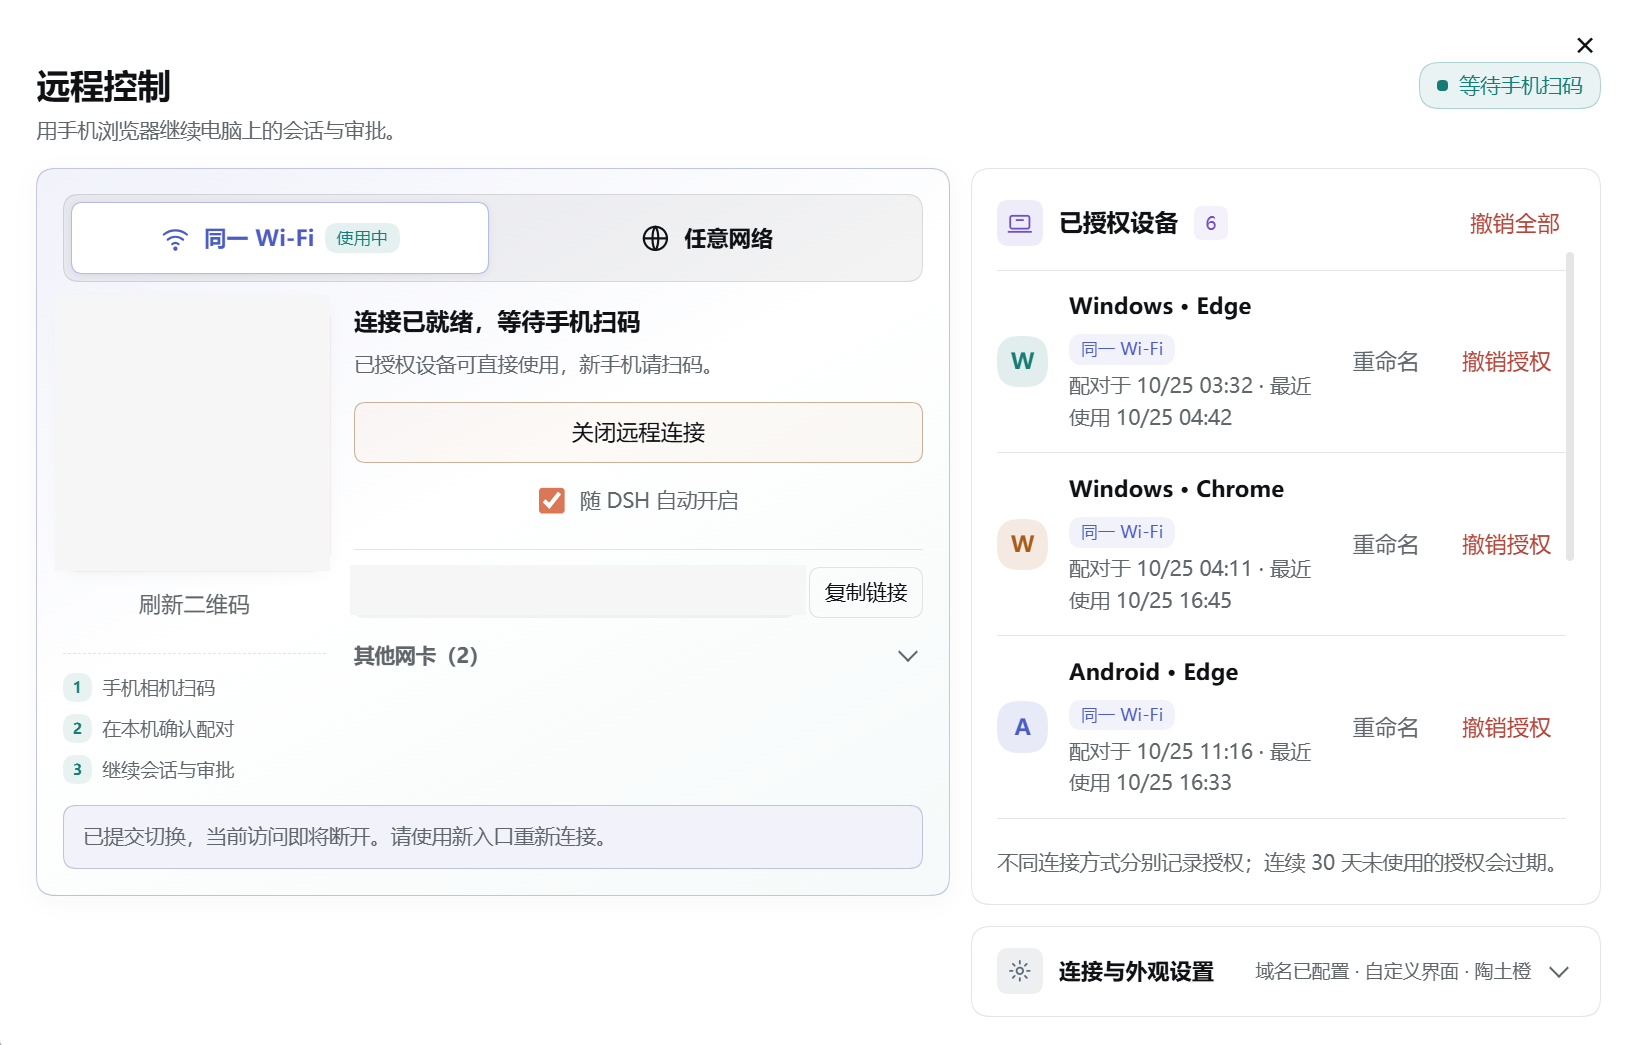
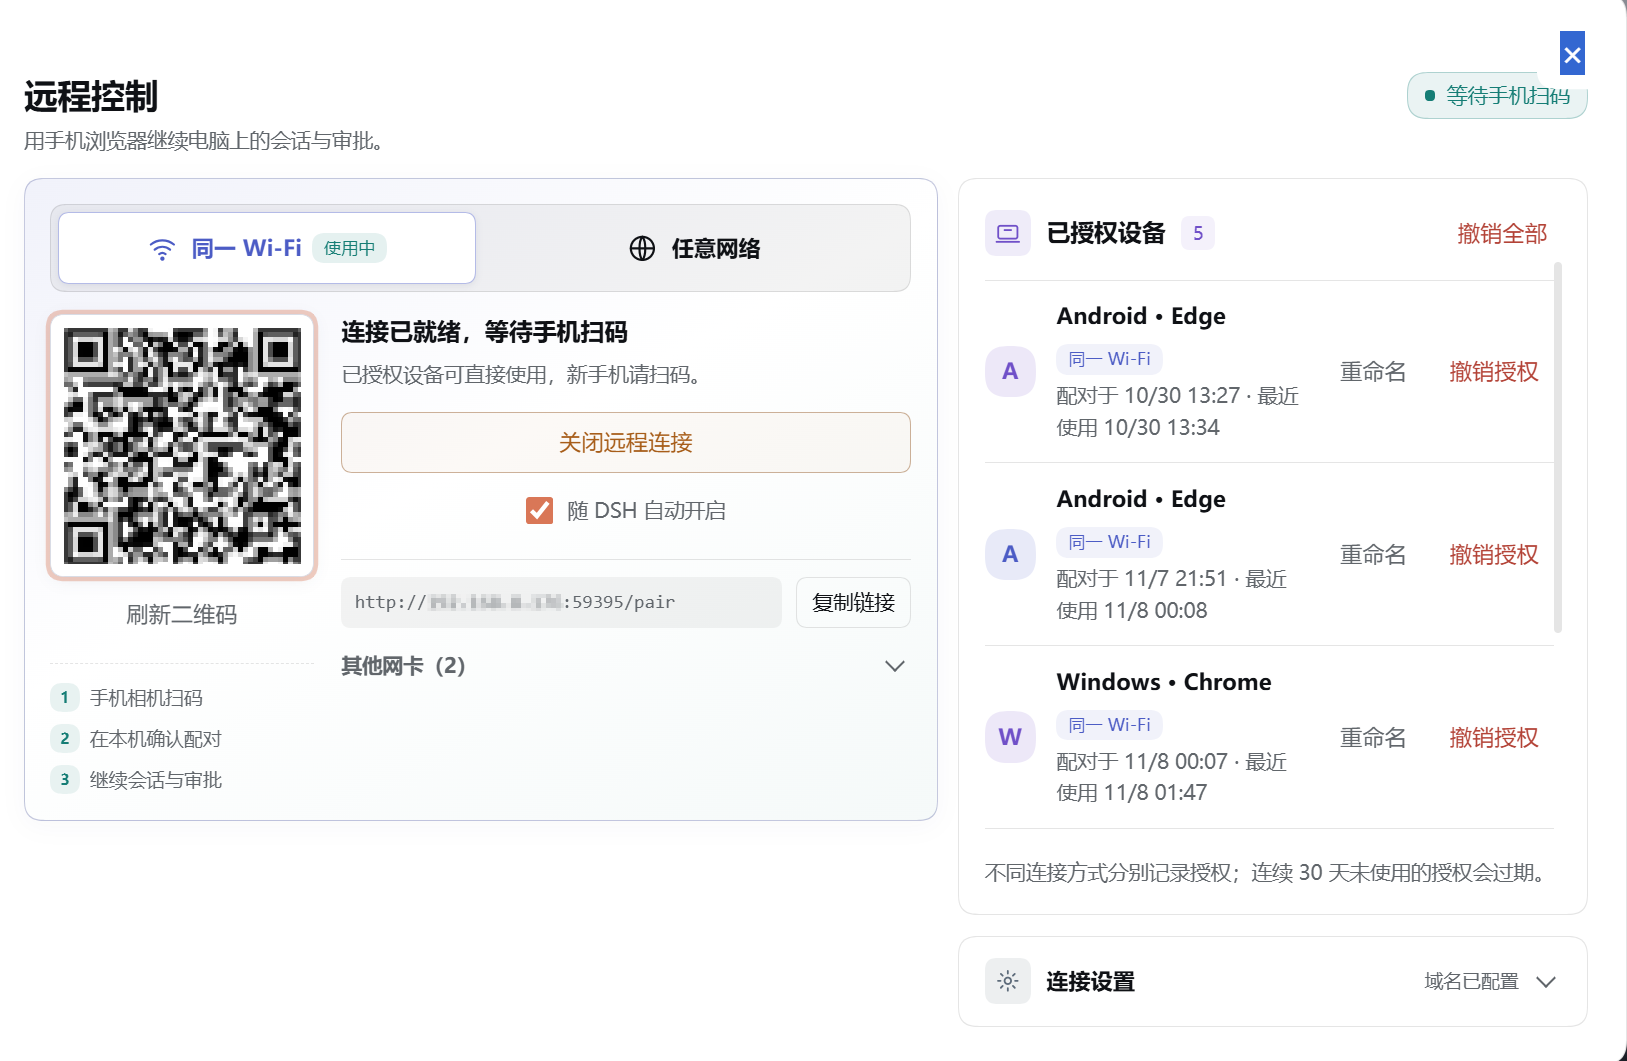
docs: show the current desktop pairing panel in the preview

diff --git a/README.md b/README.md
@@ -7,6 +7,12 @@
 ## 界面预览
 
 <p align="center">
+  <img src="https://raw.githubusercontent.com/winlin926/dsh-remote-connect/main/assets/desktop-connect.png" alt="电脑上的远程连接面板：开启连接、扫码配对与管理已授权设备" width="760" />
+</p>
+
+<p align="center"><strong>电脑上：开启连接、扫码配对、管理已授权设备</strong></p>
+
+<p align="center">
   <img src="https://raw.githubusercontent.com/winlin926/dsh-remote-connect/main/assets/mobile-session.png" alt="手机浏览器中的 DSH 新会话界面" width="300" />
   &nbsp;&nbsp;
   <img src="https://raw.githubusercontent.com/winlin926/dsh-remote-connect/main/assets/mobile-settings.png" alt="手机浏览器中的 DSH 通用设置界面" width="300" />
@@ -14,16 +20,7 @@
 
 <p align="center"><strong>手机会话</strong> · <strong>通用设置</strong></p>
 
-在手机上选择工作区与模型、继续对话，或调整语言、主题和字号。界面由电脑上的 DSH 版本及已启用扩展共同决定。
-
-<details>
-<summary><strong>查看电脑端：连接与设备授权管理</strong></summary>
-
-开启局域网或公网入口，扫描二维码配对，并在电脑上批准新设备、管理已授权设备。
-
-![电脑端远程连接面板](https://raw.githubusercontent.com/winlin926/dsh-remote-connect/main/assets/desktop-connect.png)
-
-</details>
+插件自身的界面就是电脑端的这个面板：局域网 / 公网入口、二维码配对、已授权设备的查看与重命名撤销都在这里。配对完成后，手机浏览器加载的是电脑宿主本身的界面——选择工作区与模型、继续对话，或调整语言、主题和字号，界面由电脑上的 DSH 版本及已启用扩展共同决定。
 
 ## 功能一览
 
